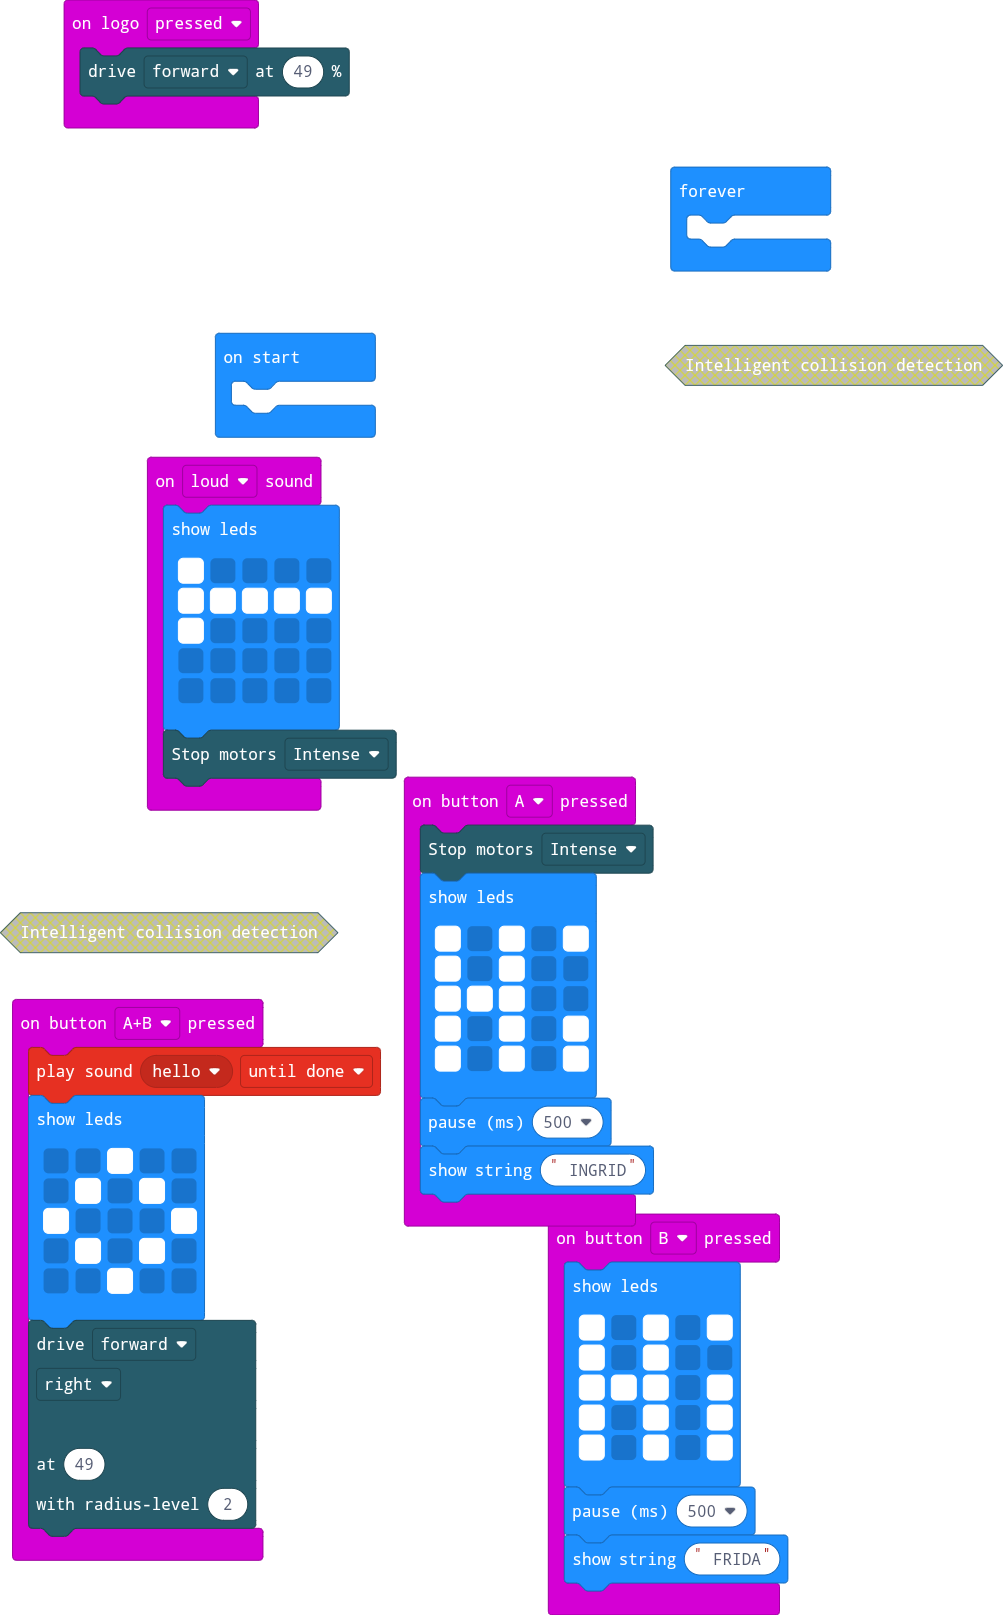
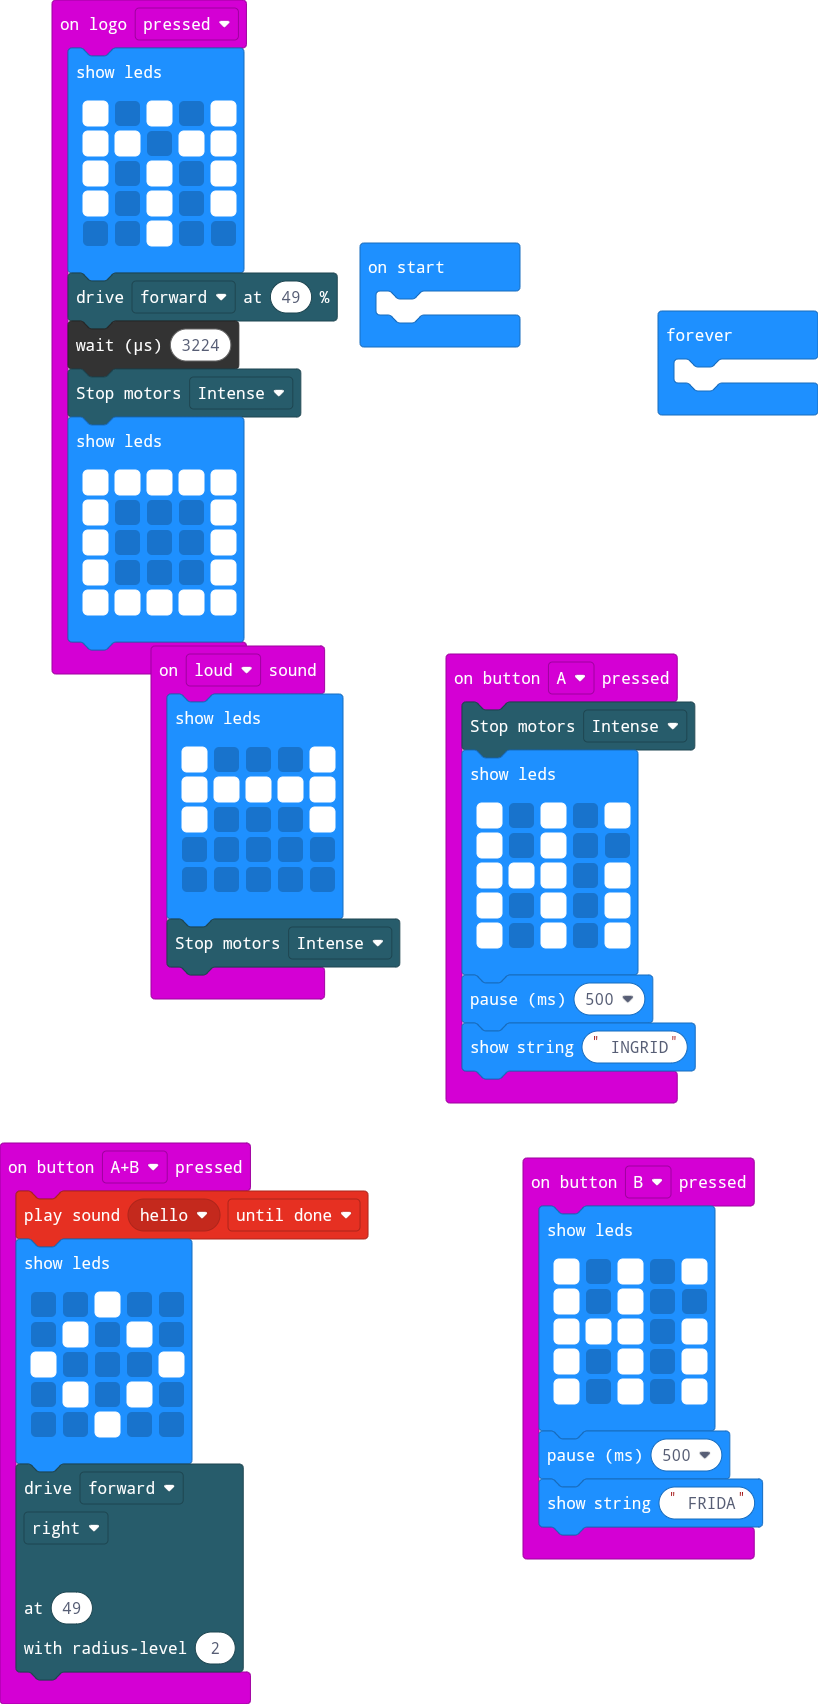
Update main.blocks, main.ts

diff --git a/main.ts b/main.ts
@@ -3,7 +3,7 @@ input.onButtonPressed(Button.A, function () {
     basic.showLeds(`
         # . # . #
         # . # . .
-        # # # . .
+        # # # . #
         # . # . #
         # . # . #
         `)
@@ -12,9 +12,9 @@ input.onButtonPressed(Button.A, function () {
 })
 input.onSound(DetectedSound.Loud, function () {
     basic.showLeds(`
-        # . . . .
+        # . . . #
         # # # # #
-        # . . . .
+        # . . . #
         . . . . .
         . . . . .
         `)
@@ -48,7 +48,23 @@ input.onButtonPressed(Button.B, function () {
     basic.showString(" FRIDA")
 })
 input.onLogoEvent(TouchButtonEvent.Pressed, function () {
+    basic.showLeds(`
+        # . # . #
+        # # . # #
+        # . # . #
+        # . # . #
+        . . # . .
+        `)
     JoyCar.drive(FRDirection.Forward, 49)
+    control.waitMicros(3224)
+    JoyCar.stop(StopIntensity.Intense)
+    basic.showLeds(`
+        # # # # #
+        # . . . #
+        # . . . #
+        # . . . #
+        # # # # #
+        `)
 })
 basic.forever(function () {
 	
